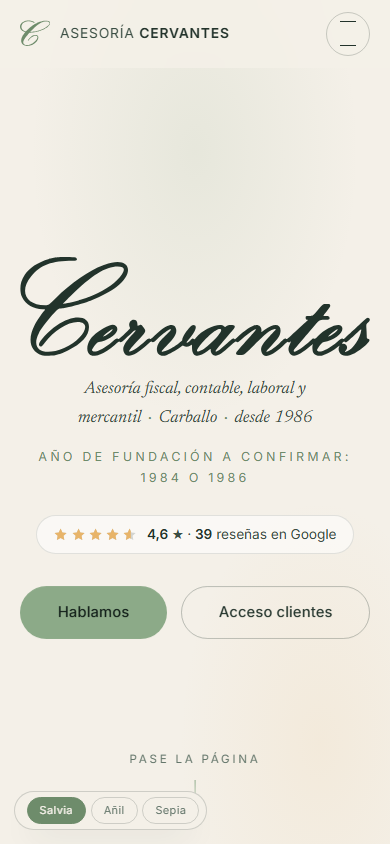
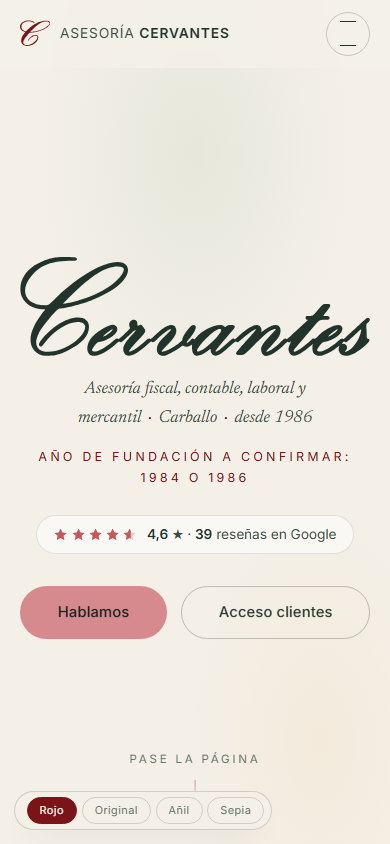
Rojo de Dourado & Fernández como paleta por defecto: comparación de plantillas por correo
Este sitio (y sus 6 hermanos de asesoría/gestoría) se envían a Dourado &
Fernández, cliente real, para que elija estructura/concepto de plantilla.
Dourado & Fernández ya tiene su web construida en su rojo de marca real, así
que ese rojo pasa a ser la paleta por defecto (el :root, sin clase) en los 7
sitios: al abrir cada enlace el cliente ve su propio color de entrada y
compara solo estructura, no color.

El verde salvia real de este sitio no desaparece: sigue disponible en el
mando de paleta como "Original", junto a Añil y Sepia. El mando pasa de tres
a cuatro botones (Rojo / Original / Añil / Sepia); Rojo es ahora el estado
sin clase y Original/Añil/Sepia son las tres clases explícitas.

--salvia-osc y --oliva toman --oro-tinta y --oro tal cual de la web real de
Dourado; --salvia y --arena son un aclarado del mismo matiz/saturación de su
--oro-claro (un rojo necesita mucha más luz que un verde para el mismo
contraste WCAG), verificado contra --papel y --tinta en los mismos usos de
texto que las paletas anteriores: --salvia-osc sobre --papel sube de 3.28:1
(paleta real) a 9.52:1, --salvia sobre --tinta pasa de 5.21:1 a 5.00:1.

scripts/verify.js actualizado para el mando de cuatro botones (50/52, los
mismos 2 fallos preexistentes sin relación con la paleta). README.md
actualizado con la nueva tabla de colores y la receta de borrado.

diff --git a/scripts/verify.js b/scripts/verify.js
@@ -421,28 +421,45 @@ async function recorrer(p, paso = 500, espera = 130) {
 
     const inicial = await p.evaluate(() => ({
       visible: !document.querySelector('#paleta').hidden,
-      pulsado: document.querySelector('#paleta-salvia').getAttribute('aria-pressed'),
-      clase: document.documentElement.className
+      pulsado: document.querySelector('#paleta-rojo').getAttribute('aria-pressed'),
+      clase: document.documentElement.className,
+      colorBtn: getComputedStyle(document.querySelector('.btn-pluma')).backgroundColor
     }));
-    ok('paleta: el mando aparece con JS y «Salvia» empieza pulsado',
-      inicial.visible && inicial.pulsado === 'true' && !/paleta-(anil|sepia)/.test(inicial.clase), inicial);
+    ok('paleta: el mando aparece con JS y «Rojo» (Dourado & Fernández, por defecto) empieza pulsado',
+      inicial.visible && inicial.pulsado === 'true' &&
+      !/paleta-(original|anil|sepia)/.test(inicial.clase) &&
+      inicial.colorBtn === 'rgb(214, 138, 141)', inicial);
+    const colorRojo = inicial.colorBtn;
 
-    const colorSalvia = await p.evaluate(() => getComputedStyle(document.querySelector('.btn-pluma')).backgroundColor);
-    await p.click('#paleta-anil');
+    await p.click('#paleta-original');
     /* .btn-pluma tiene transition en background-color: hay que esperar a que
        termine (280ms) o se lee un color a medio interpolar, ni el viejo ni
        el nuevo */
     await p.waitForTimeout(400);
+    const original = await p.evaluate(() => ({
+      clase: document.documentElement.classList.contains('paleta-original'),
+      pulsadoOriginal: document.querySelector('#paleta-original').getAttribute('aria-pressed'),
+      pulsadoRojo: document.querySelector('#paleta-rojo').getAttribute('aria-pressed'),
+      color: getComputedStyle(document.querySelector('.btn-pluma')).backgroundColor,
+      guardado: localStorage.getItem('cervantes-paleta')
+    }));
+    ok('paleta: Original recupera el verde salvia real del sitio',
+      original.clase && original.pulsadoOriginal === 'true' && original.pulsadoRojo === 'false' &&
+      original.color === 'rgb(140, 170, 136)' && original.color !== colorRojo &&
+      original.guardado === 'original', original);
+
+    await p.click('#paleta-anil');
+    await p.waitForTimeout(400);
     const anil = await p.evaluate(() => ({
       clase: document.documentElement.classList.contains('paleta-anil'),
+      sinOriginal: !document.documentElement.classList.contains('paleta-original'),
       pulsadoAnil: document.querySelector('#paleta-anil').getAttribute('aria-pressed'),
-      pulsadoSalvia: document.querySelector('#paleta-salvia').getAttribute('aria-pressed'),
       color: getComputedStyle(document.querySelector('.btn-pluma')).backgroundColor,
       guardado: localStorage.getItem('cervantes-paleta')
     }));
     ok('paleta: Añil aplica la clase, mueve aria-pressed y cambia un color real',
-      anil.clase && anil.pulsadoAnil === 'true' && anil.pulsadoSalvia === 'false' &&
-      anil.color !== colorSalvia && anil.guardado === 'anil', anil);
+      anil.clase && anil.sinOriginal && anil.pulsadoAnil === 'true' &&
+      anil.color !== colorRojo && anil.color !== original.color && anil.guardado === 'anil', anil);
 
     await p.click('#paleta-sepia');
     await p.waitForTimeout(400);
@@ -453,15 +470,25 @@ async function recorrer(p, paso = 500, espera = 130) {
       guardado: localStorage.getItem('cervantes-paleta')
     }));
     ok('paleta: Sepia sustituye a Añil (una sola paleta activa) y cambia el color',
-      sepia.clase && sepia.sinAnil && sepia.color !== colorSalvia && sepia.color !== anil.color &&
+      sepia.clase && sepia.sinAnil && sepia.color !== colorRojo && sepia.color !== anil.color &&
       sepia.guardado === 'sepia', sepia);
     await p.screenshot({ path: path.join(CAPS, 'v-paleta-sepia.png') });
 
     /* recarga: la clase debe estar puesta YA en domcontentloaded, antes de que
-       main.js llegue a ejecutarse, o habría un fogonazo de salvia a sepia */
+       main.js llegue a ejecutarse, o habría un fogonazo de rojo a sepia */
     await p.reload({ waitUntil: 'domcontentloaded' });
     const sinFlash = await p.evaluate(() => document.documentElement.classList.contains('paleta-sepia'));
     ok('paleta: la paleta guardada se aplica sin fogonazo (ya en domcontentloaded)', sinFlash, sinFlash);
+
+    /* volver a Rojo debe quitar la clase entera (Rojo es el :root, sin clase) */
+    await p.evaluate(() => document.querySelector('#paleta-rojo').click());
+    await p.waitForTimeout(400);
+    const vueltaRojo = await p.evaluate(() => ({
+      clase: document.documentElement.className,
+      guardado: localStorage.getItem('cervantes-paleta')
+    }));
+    ok('paleta: Rojo quita cualquier clase de paleta (vuelve al :root)',
+      !/paleta-(original|anil|sepia)/.test(vueltaRojo.clase) && vueltaRojo.guardado === 'rojo', vueltaRojo);
 
     ok('paleta: sin errores de consola', p.__errores.length === 0, p.__errores);
     await p.context().close();

diff --git a/css/style.css b/css/style.css
@@ -4,6 +4,9 @@
    La web se escribe sola: el logotipo es una firma caligráfica y cada área de
    trabajo es un capítulo. Fondo papel, verde salvia como tinta de pluma,
    verde tinta oscuro para el texto y los bloques, arena SOLO en los numerales.
+   (Nota temporal: mientras dura el control de paleta de más abajo, el :root
+   lleva el rojo de Dourado & Fernández en vez del verde salvia real — ver esa
+   sección para el porqué y para recuperar este verde con un clic.)
 
    Los estados «ocultos» de la animación viven todos bajo html.has-motion, que
    solo añade main.js cuando GSAP ha cargado y el visitante no ha pedido menos
@@ -15,13 +18,13 @@
   --papel:      #F4F0E8;
   --papel-2:    #EFEADF;
   --papel-3:    #E7E0D1;
-  --salvia:     #8CAA88;
-  --salvia-osc: #6E8C6B;
-  --oliva:      #93A86D;
+  --salvia:     #D68A8D;
+  --salvia-osc: #7A1418;
+  --oliva:      #9C2A2E;
   --tinta:      #22332B;
   --tinta-80:   #3B4E44;
   --tinta-60:   #64766B;
-  --arena:      #E8B469;
+  --arena:      #C4585C;
 
   --serif: "Newsreader", "Iowan Old Style", Georgia, "Times New Roman", serif;
   --sans:  "Inter", system-ui, -apple-system, "Segoe UI", Roboto, sans-serif;
@@ -35,11 +38,28 @@
 /* -------------------------- Control de paleta --------------------------
    BLOQUE DE DEMOSTRACIÓN: se borra entero al entregar la web ya como
    oficial (ver README, "El control de paleta"). Solo cambia el color de
-   marca — el papel y la tinta son los mismos en las tres, y el logo real
-   no cambia de color con el mando. Salvia (la paleta real, sin clase) se
-   sustituye por Añil (azul, registro financiero) o Sepia (tinta cálida,
-   coherente con el concepto «Pluma»). Contrastes WCAG comprobados contra
-   --papel y --tinta antes de fijar los tonos. */
+   marca — el papel y la tinta son los mismos en las cuatro, y el logo real
+   no cambia de color con el mando.
+
+   El :root (sin clase) YA NO es el verde salvia real: de momento lleva el
+   rojo de Dourado & Fernández (dourado-fernandez-asesores-carballo-web),
+   para que este sitio y sus 6 hermanos lleguen a un mismo cliente por
+   correo ya en SU color y la comparación sea solo de estructura, no de
+   color. --salvia/--arena son un aclarado (tint) de su --oro-claro (mismo
+   matiz e intensidad, más claro) porque un rojo necesita mucha más luz que
+   un verde para el mismo contraste — usado en texto claro sobre --tinta
+   oscura y como fondo de botón bajo texto oscuro (ver .pie h4 y
+   .btn-pluma); --salvia-osc es su --oro-tinta tal cual (~10:1 sobre
+   --papel, como en la web de Dourado); --oliva es su --oro tal cual.
+
+   El verde salvia real (la paleta oficial del sitio) sigue existiendo,
+   ahora como html.paleta-original, elegible con el mando igual que Añil o
+   Sepia. Añil (azul, registro financiero) y Sepia (tinta cálida, coherente
+   con el concepto «Pluma») no se han tocado. Contrastes WCAG comprobados
+   contra --papel y --tinta antes de fijar cada tono. */
+html.paleta-original {
+  --salvia: #8CAA88; --salvia-osc: #6E8C6B; --oliva: #93A86D; --arena: #E8B469;
+}
 html.paleta-anil {
   --salvia: #909FC1; --salvia-osc: #3E4F7E; --oliva: #6194AE; --arena: #E4A758;
 }

diff --git a/js/main.js b/js/main.js
@@ -75,34 +75,39 @@
   })();
 
   /* ---------------- El control de paleta ----------------
-     NO ES PARTE DEL SITIO. Es un mando para enseñar la misma web en tres
-     paletas de color delante del cliente mientras decide. Al entregar la
-     web ya como oficial se borra esta función, el bloque .paleta del CSS,
-     el <div id="paleta"> y la bandera del <head>. */
+     NO ES PARTE DEL SITIO. Es un mando para enseñar la misma web en cuatro
+     paletas de color delante del cliente mientras decide. "Rojo" (sin
+     clase, el :root) es el rojo real de Dourado & Fernández y es la
+     paleta por defecto mientras este sitio se compara con sus 6 hermanos
+     por correo; "Original" es el verde salvia real de este sitio. Al
+     entregar la web ya como oficial se borra esta función, el bloque
+     .paleta del CSS, el <div id="paleta"> y la bandera del <head>. */
   (function initPaleta() {
     var caja = $("#paleta");
     var botones = {
-      salvia: $("#paleta-salvia"),
+      rojo: $("#paleta-rojo"),
+      original: $("#paleta-original"),
       anil: $("#paleta-anil"),
       sepia: $("#paleta-sepia")
     };
-    if (!caja || !botones.salvia || !botones.anil || !botones.sepia) return;
+    if (!caja || !botones.rojo || !botones.original || !botones.anil || !botones.sepia) return;
     var CLAVE_PALETA = "cervantes-paleta";
 
     caja.hidden = false; // sin JS no se enseña: no haría nada
 
     function pintar(nombre, guardar) {
-      html.classList.remove("paleta-anil", "paleta-sepia");
-      if (nombre !== "salvia") html.classList.add("paleta-" + nombre);
+      html.classList.remove("paleta-original", "paleta-anil", "paleta-sepia");
+      if (nombre !== "rojo") html.classList.add("paleta-" + nombre);
       Object.keys(botones).forEach(function (k) {
         botones[k].setAttribute("aria-pressed", String(k === nombre));
       });
       if (guardar) { try { localStorage.setItem(CLAVE_PALETA, nombre); } catch (e) {} }
     }
 
-    var actual = html.classList.contains("paleta-anil") ? "anil" : html.classList.contains("paleta-sepia") ? "sepia" : "salvia";
+    var actual = html.classList.contains("paleta-original") ? "original" : html.classList.contains("paleta-anil") ? "anil" : html.classList.contains("paleta-sepia") ? "sepia" : "rojo";
     pintar(actual, false);
-    botones.salvia.addEventListener("click", function () { pintar("salvia", true); });
+    botones.rojo.addEventListener("click", function () { pintar("rojo", true); });
+    botones.original.addEventListener("click", function () { pintar("original", true); });
     botones.anil.addEventListener("click", function () { pintar("anil", true); });
     botones.sepia.addEventListener("click", function () { pintar("sepia", true); });
   })();

diff --git a/index.html b/index.html
@@ -72,10 +72,13 @@
 /* Paleta elegida en el control de maqueta. Se resuelve aquí, antes de
    pintar, o la página arrancaría en una paleta y saltaría a otra.
    CONTROL DE DEMOSTRACIÓN: ver README, "El control de paleta", para
-   quitarlo al entregar la web ya como oficial. */
+   quitarlo al entregar la web ya como oficial. El :root sin clase es
+   ahora el rojo de Dourado & Fernández (paleta por defecto mientras se
+   compara con los 6 sitios hermanos); "original" recupera el verde
+   salvia real de este sitio. */
 try {
   var p = localStorage.getItem('cervantes-paleta');
-  if (p === 'anil' || p === 'sepia') document.documentElement.classList.add('paleta-' + p);
+  if (p === 'anil' || p === 'sepia' || p === 'original') document.documentElement.classList.add('paleta-' + p);
 } catch (e) {}
 </script>
 </head>
@@ -472,14 +475,19 @@ try {
 
 <!-- ===================== CONTROL DE PALETA =====================
      Esto NO es parte del sitio: es un mando para enseñar la misma web con
-     tres paletas de color distintas delante del cliente, mientras decide.
-     Al entregar la web ya como oficial se borra este bloque, el bloque
+     cuatro paletas de color distintas delante del cliente, mientras decide.
+     "Rojo" (sin clase, el :root) es el rojo real de Dourado & Fernández y
+     es la paleta por defecto mientras se compara este sitio con sus 6
+     hermanos; "Original" es el verde salvia real de este sitio. Al
+     entregar la web ya como oficial se borra este bloque, el bloque
      .paleta del CSS, la función initPaleta() de main.js y la bandera del
-     <head>. Viene con [hidden]: sin JS no aparece, porque no haría nada. -->
+     <head> (y se decide qué paleta se queda de verdad). Viene con
+     [hidden]: sin JS no aparece, porque no haría nada. -->
 <div class="paleta" id="paleta" hidden>
   <p class="paleta-rotulo">Paleta</p>
   <div class="paleta-botones" role="group" aria-label="Paleta de color de la maqueta">
-    <button type="button" id="paleta-salvia" aria-pressed="true">Salvia</button>
+    <button type="button" id="paleta-rojo" aria-pressed="true">Rojo</button>
+    <button type="button" id="paleta-original" aria-pressed="false">Original</button>
     <button type="button" id="paleta-anil" aria-pressed="false">Añil</button>
     <button type="button" id="paleta-sepia" aria-pressed="false">Sepia</button>
   </div>

diff --git a/README.md b/README.md
@@ -247,35 +247,62 @@ bloque es un marco marcado como pendiente. Se regeneran con
 
 Un cliente de otra asesoría (Dourado & Fernández) vio la maqueta de su propia web en
 una reunión y no le convenció el verde. Desde entonces, todas las plantillas del
-sector asesoría/gestoría llevan un mando para enseñar la misma web en tres colores
+sector asesoría/gestoría llevan un mando para enseñar la misma web en varios colores
 distintos delante del cliente, sin tener que reeditar el CSS a cada rato. **Esto no es
 parte del sitio**: es una herramienta de venta mientras se decide la marca, y se
 retira al entregar la web ya como oficial.
 
-Las tres paletas (solo cambia el color de marca; el papel y la tinta son iguales
-en las tres):
+**Actualización (2026-09-21):** este sitio (y sus 6 hermanos de asesoría/gestoría) se
+envían por correo a Dourado & Fernández, un cliente real, para que elija qué
+ESTRUCTURA/CONCEPTO de plantilla prefiere. Dourado & Fernández ya tiene su propia web
+construida en su rojo de marca real. Para que el color deje de ser una variable en esa
+comparación — y el cliente compare solo estructura, viendo cada plantilla ya en «su»
+color — el rojo real de Dourado & Fernández pasó a ser la paleta **por defecto** (el
+`:root`, sin clase) en los 7 sitios. El verde salvia real de este sitio no ha
+desaparecido: sigue siendo una opción del mando, ahora con el nombre **Original**.
+
+Las cuatro paletas (solo cambia el color de marca; el papel y la tinta son iguales
+en las cuatro):
 
 | Paleta | `--salvia` | `--salvia-osc` | `--oliva` | `--arena` | Por qué |
 |---|---|---|---|---|---|
-| **Salvia** (la real, sin clase) | `#8CAA88` | `#6E8C6B` | `#93A86D` | `#E8B469` | El verde salvia + arena actual del sitio |
+| **Rojo** (por defecto, sin clase) | `#D68A8D` | `#7A1418` | `#9C2A2E` | `#C4585C` | Rojo real de Dourado & Fernández (`dourado-fernandez-asesores-carballo-web`), para el correo comparativo |
+| **Original** | `#8CAA88` | `#6E8C6B` | `#93A86D` | `#E8B469` | El verde salvia + arena real de este sitio (era la paleta por defecto hasta el 2026-09-21) |
 | **Añil** | `#909FC1` | `#3E4F7E` | `#6194AE` | `#E4A758` | Azul de registro contable/financiero |
 | **Sepia** | `#C78D70` | `#79412A` | `#C9664A` | `#E2A350` | Tinta cálida, coherente con el concepto «Pluma» |
 
-Los tres tonos de marca se comprobaron con la fórmula de contraste WCAG (luminancia
-relativa sRGB) contra `--papel` y `--tinta`, en los sitios donde se usan como texto
-(no en los puramente decorativos, como el trazo del SVG o la máscara del separador):
-ambas paletas nuevas igualan o mejoran los contrastes de la paleta real (`--salvia-osc`
-sobre `--papel` pasa de 3.28:1 a 6.6–7.1:1; `--salvia` sobre `--tinta`, de 5.21:1 a
-4.7–5.0:1).
+El rojo de Dourado & Fernández no se copió literal en las cuatro variables: su propia
+web usa `--oro` (#9C2A2E, el acento principal) y `--oro-tinta` (#7A1418, la variante
+oscura para texto, ~10:1 sobre blanco/crema por su propia documentación) tal cual, para
+`--oliva` y `--salvia-osc`. Pero `--salvia` hace doble papel en este sitio — es fondo
+de botón bajo texto oscuro (`.btn-pluma`) Y es texto claro sobre `--tinta` oscura
+(`.pie h4`, `.pie-pendiente` en el pie de página) — y un rojo necesita mucha más luz
+que un verde para el mismo contraste (el canal verde pesa 0.7152 en la luminancia WCAG,
+el rojo solo 0.2126). Por eso `--salvia` y `--arena` son un aclarado (mismo matiz y
+saturación, 358°/48%, más claro) de `--oro-claro` (#C4585C) de Dourado, no el tono
+literal: `--arena` se quedó en el propio `#C4585C` (uso decorativo/gráfico, umbral
+WCAG 3:1) y `--salvia` se aclaró hasta `#D68A8D` para llegar a ≥4.5:1 en sus dos usos
+de texto.
 
-**Cómo se quita al entregar la web ya como oficial** (4 sitios):
+Los tonos de marca se comprobaron con la fórmula de contraste WCAG (luminancia
+relativa sRGB) contra `--papel` y `--tinta`, en los sitios donde se usan como texto
+(no en los puramente decorativos, como el trazo del SVG o la máscara del separador).
+La paleta Rojo iguala o mejora los contrastes de la paleta Original en esos mismos
+usos: `--salvia-osc` sobre `--papel` pasa de 3.28:1 (Original) a 9.52:1 (Rojo);
+`--salvia` sobre `--tinta` (texto del pie) pasa de 5.21:1 a 5.00:1, y sobre el texto
+oscuro del botón (`#14211B`) llega a 6.24:1.
+
+**Cómo se quita al entregar la web ya como oficial** (4 sitios, y decidir antes cuál
+de las cuatro paletas se queda como la real):
 
 1. `index.html`: borrar el `<script>` del `<head>` que lee `localStorage` (busca
    `cervantes-paleta`) y el bloque `<div class="paleta" id="paleta" hidden>…</div>`
    junto al aviso de cookies.
-2. `css/style.css`: borrar el bloque `html.paleta-anil { … } html.paleta-sepia { … }`
-   (justo debajo de `:root`) y el bloque «Control de paleta (demostración…)» (junto al
-   aviso de cookies).
+2. `css/style.css`: decidir qué paleta queda como `:root` (si es Original, devolver
+   los cuatro valores de `--salvia`/`--salvia-osc`/`--oliva`/`--arena` a los de la fila
+   «Original» de la tabla), borrar los bloques `html.paleta-original { … }`,
+   `html.paleta-anil { … }` y `html.paleta-sepia { … }` (justo debajo de `:root`) y el
+   bloque «Control de paleta (demostración…)» (junto al aviso de cookies).
 3. `js/main.js`: borrar la función `initPaleta()` completa. Si no se usa en ningún otro
    sitio, también se puede quitar `actualizarAlturaCookie()` / `--cookie-h` de
    `avisoCookies()`, aunque no hace daño dejarlo.
